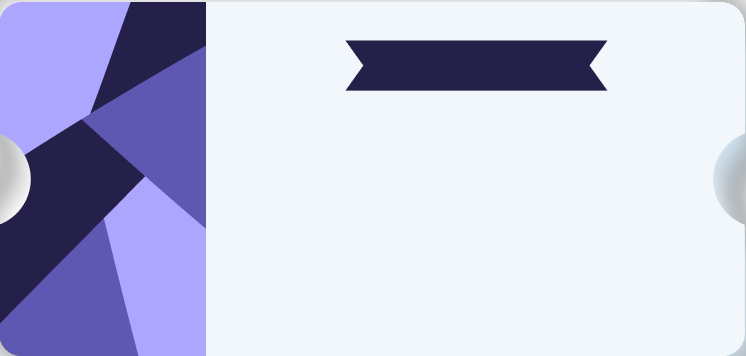
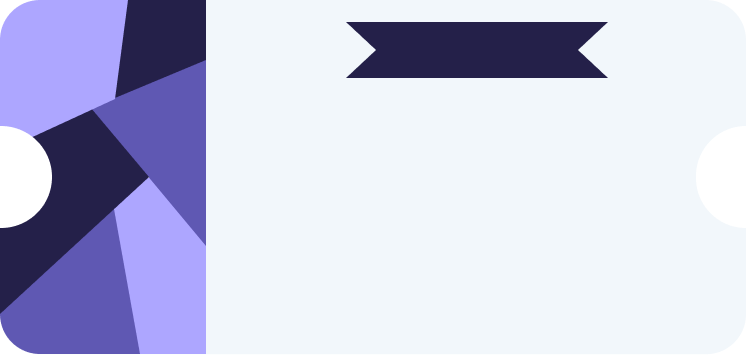
Added Coupon Image

diff --git a/lib/view/booking_screen/widgets/coupon_widget.dart b/lib/view/booking_screen/widgets/coupon_widget.dart
@@ -1,5 +1,6 @@
 import 'package:flutter/material.dart';
 import 'package:part_time/core/app_export.dart';
+import 'package:part_time/view/booking_screen/widgets/shadow_container.dart';
 import 'package:part_time/widgets/custom_button.dart';
 
 // ignore: must_be_immutable
@@ -11,93 +12,48 @@ class CouponWidget extends StatelessWidget {
   @override
   Widget build(BuildContext context) {
     return Container(
-
-
-
       margin: getMargin(
-        bottom: 20
+          bottom: 20
       ),
-      decoration: BoxDecoration(
-        image: DecorationImage(
-          image: AssetImage(ImageConstant.imgCoupon),
-          fit: BoxFit.cover
-        )
-      ),
-      child: Padding(
-        padding: getPadding(
-          left: 20,
-          top: 19,
-          right: 20,
-          bottom: 19,
+      child: ShadowContainer(
+        borderRadius:  BorderRadius.circular(
+          getHorizontalSize(
+            10.00,
+          ),
         ),
-        child: Row(
-          crossAxisAlignment: CrossAxisAlignment.center,
-          mainAxisSize: MainAxisSize.max,
-          children: [
-            SizedBox(
-              width: getHorizontalSize(50),
-              child: Center(
-                child: RotatedBox(
-        quarterTurns: 3,
-                  child: Text(
-                    "Rs.100 Off",
-                    maxLines: null,
-                    textAlign: TextAlign.center,
-                    style: TextStyle(
-                      color: ColorConstant.whiteA700,
-                      fontSize: getFontSize(
-                        24,
-                      ),
-                      fontFamily: 'Kumbh Sans',
-                      fontWeight: FontWeight.w900,
-                    ),
-                  ),
-                ),
-              ),
+        child: Container(
+
+
+
+
+          decoration: BoxDecoration(
+            image: DecorationImage(
+              image: AssetImage(ImageConstant.imgCoupon),
+              fit: BoxFit.fill
+            )
+          ),
+          child: Padding(
+            padding: getPadding(
+              left: 20,
+              top: 15,
+              right: 20,
+              bottom: 19,
             ),
-            Expanded(
-              child: Container(
-                margin: getMargin(
-                  left: 56,
-                ),
-                child: Column(
-                  mainAxisSize: MainAxisSize.min,
-                  crossAxisAlignment: CrossAxisAlignment.start,
-                  mainAxisAlignment: MainAxisAlignment.start,
-                  children: [
-                    Align(
-                      alignment: Alignment.center,
-                      child: Padding(
-                        padding: getPadding(
-                          left: 81,
-                          right: 78,
-                        ),
-                        child: Text(
-                          "COUPON",
-                          overflow: TextOverflow.ellipsis,
-                          textAlign: TextAlign.left,
-                          style: TextStyle(
-                            color: ColorConstant.whiteA700,
-                            fontSize: getFontSize(
-                              16,
-                            ),
-                            fontFamily: 'Kumbh Sans',
-                            fontWeight: FontWeight.w800,
-                          ),
-                        ),
-                      ),
-                    ),
-                    Padding(
-                      padding: getPadding(
-                        top: 21,
-                        right: 10,
-                      ),
+            child: Row(
+              crossAxisAlignment: CrossAxisAlignment.center,
+              mainAxisSize: MainAxisSize.max,
+              children: [
+                SizedBox(
+                  width: getHorizontalSize(50),
+                  child: Center(
+                    child: RotatedBox(
+            quarterTurns: 3,
                       child: Text(
-                        "CONSULT100",
-                        overflow: TextOverflow.ellipsis,
-                        textAlign: TextAlign.left,
+                        "Rs.100 Off",
+                        maxLines: null,
+                        textAlign: TextAlign.center,
                         style: TextStyle(
-                          color: ColorConstant.gray900,
+                          color: ColorConstant.whiteA700,
                           fontSize: getFontSize(
                             24,
                           ),
@@ -106,71 +62,126 @@ class CouponWidget extends StatelessWidget {
                         ),
                       ),
                     ),
-                    Container(
-                      width: getHorizontalSize(
-                        101.00,
-                      ),
-                      margin: getMargin(
-                        top: 9,
-                        right: 10,
-                      ),
-                      child: Text(
-                        "Get Discount On Technology Fee",
-                        maxLines: null,
-                        textAlign: TextAlign.left,
-                        style: TextStyle(
-                          color: ColorConstant.bluegray400,
-                          fontSize: getFontSize(
-                            13,
-                          ),
-                          fontFamily: 'Kumbh Sans',
-                          fontWeight: FontWeight.w700,
-                        ),
-                      ),
+                  ),
+                ),
+                Expanded(
+                  child: Container(
+                    margin: getMargin(
+                      left: 56,
                     ),
-                    Container(
-                      width: getHorizontalSize(
-                        232.00,
-                      ),
-                      margin: getMargin(
-                        top: 1,
-                      ),
-                      child: Row(
-                        mainAxisAlignment: MainAxisAlignment.spaceBetween,
-                        crossAxisAlignment: CrossAxisAlignment.end,
-                        mainAxisSize: MainAxisSize.max,
-                        children: [
-                          Padding(
+                    child: Column(
+                      mainAxisSize: MainAxisSize.min,
+                      crossAxisAlignment: CrossAxisAlignment.start,
+                      mainAxisAlignment: MainAxisAlignment.start,
+                      children: [
+                        Align(
+                          alignment: Alignment.center,
+                          child: Padding(
                             padding: getPadding(
-                              top: 24,
+                              left: 81,
+                              right: 78,
                             ),
                             child: Text(
-                              "T&C Applies*",
+                              "COUPON",
                               overflow: TextOverflow.ellipsis,
                               textAlign: TextAlign.left,
                               style: TextStyle(
-                                color: ColorConstant.bluegray400,
+                                color: ColorConstant.whiteA700,
                                 fontSize: getFontSize(
-                                  6,
+                                  16,
                                 ),
                                 fontFamily: 'Kumbh Sans',
-                                fontWeight: FontWeight.w700,
+                                fontWeight: FontWeight.w800,
                               ),
                             ),
                           ),
-                          CustomButton(
-                            width: 115,
-                            text: "APPLIED",
-                            variant: ButtonVariant.OutlineBluegray100,
+                        ),
+                        Padding(
+                          padding: getPadding(
+                            top: 21,
+                            right: 10,
                           ),
-                        ],
-                      ),
+                          child: Text(
+                            "CONSULT100",
+                            overflow: TextOverflow.ellipsis,
+                            textAlign: TextAlign.left,
+                            style: TextStyle(
+                              color: ColorConstant.gray900,
+                              fontSize: getFontSize(
+                                24,
+                              ),
+                              fontFamily: 'Kumbh Sans',
+                              fontWeight: FontWeight.w900,
+                            ),
+                          ),
+                        ),
+                        Container(
+                          width: getHorizontalSize(
+                            101.00,
+                          ),
+                          margin: getMargin(
+                            top: 9,
+                            right: 10,
+                          ),
+                          child: Text(
+                            "Get Discount On Technology Fee",
+                            maxLines: null,
+                            textAlign: TextAlign.left,
+                            style: TextStyle(
+                              color: ColorConstant.bluegray400,
+                              fontSize: getFontSize(
+                                13,
+                              ),
+                              fontFamily: 'Kumbh Sans',
+                              fontWeight: FontWeight.w700,
+                            ),
+                          ),
+                        ),
+                        Container(
+                          width: getHorizontalSize(
+                            232.00,
+                          ),
+                          margin: getMargin(
+                            top: 1,
+                          ),
+                          child: Row(
+                            mainAxisAlignment: MainAxisAlignment.spaceBetween,
+                            crossAxisAlignment: CrossAxisAlignment.end,
+                            mainAxisSize: MainAxisSize.max,
+                            children: [
+                              Padding(
+                                padding: getPadding(
+                                  top: 24,
+                                ),
+                                child: Text(
+                                  "T&C Applies*",
+                                  overflow: TextOverflow.ellipsis,
+                                  textAlign: TextAlign.left,
+                                  style: TextStyle(
+                                    color: ColorConstant.bluegray400,
+                                    fontSize: getFontSize(
+                                      6,
+                                    ),
+                                    fontFamily: 'Kumbh Sans',
+                                    fontWeight: FontWeight.w700,
+                                  ),
+                                ),
+                              ),
+                              CustomButton(
+                                width: 115,
+                                text: "APPLIED",
+                                variant: ButtonVariant.OutlineBluegray100,
+                              ),
+                            ],
+                          ),
+                        ),
+                      ],
                     ),
-                  ],
+                  ),
                 ),
-              ),
+              ],
             ),
-          ],
+          ),
         ),
       ),
     );

diff --git a/lib/widgets/custom_button.dart b/lib/widgets/custom_button.dart
@@ -156,14 +156,14 @@ class CustomButton extends StatelessWidget {
           BoxShadow(
             color: ColorConstant.bluegray100,
             spreadRadius: getHorizontalSize(
-              2.00,
+              1.00,
             ),
             blurRadius: getHorizontalSize(
-              2.00,
+              5.00,
             ),
             offset: const Offset(
-              10,
-              10,
+              5,
+              5,
             ),
           )
         ];
